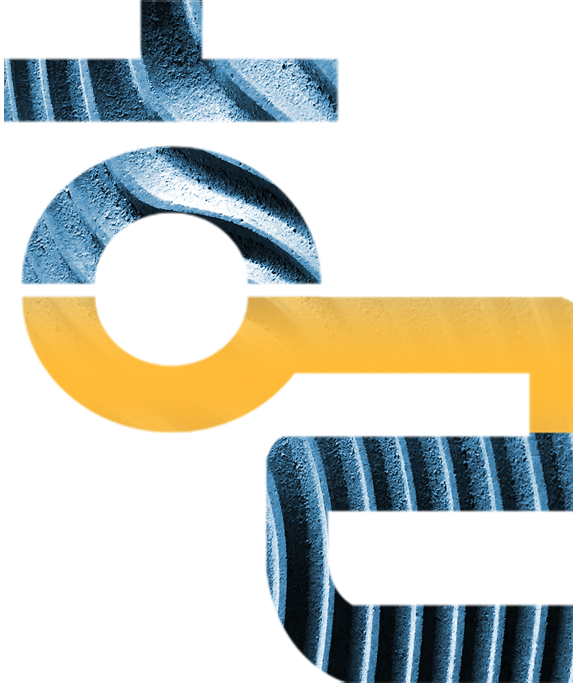
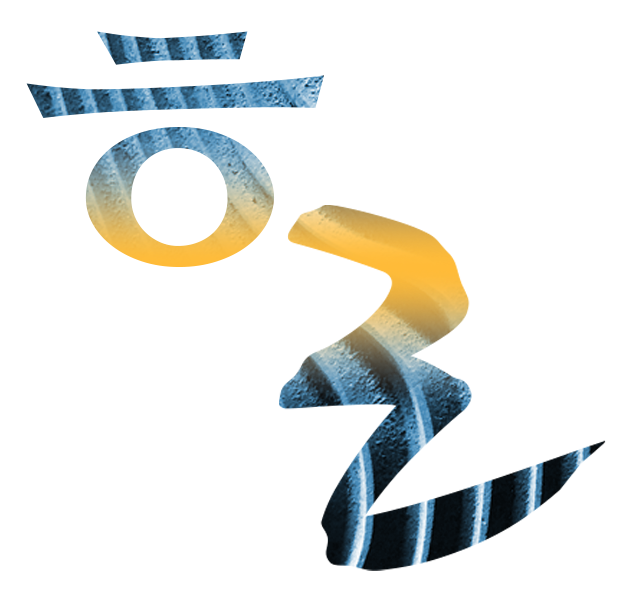
..

diff --git a/public/index.html b/public/index.html
@@ -1,0 +1,89 @@
+<!DOCTYPE html>
+<html>
+  <head>
+    <meta charset="utf-8">
+    <meta name="viewport" content="width=device-width, initial-scale=1">
+    <title>Welcome to Firebase Hosting</title>
+
+    <!-- update the version number as needed -->
+    <script defer src="/__/firebase/8.3.0/firebase-app.js"></script>
+    <!-- include only the Firebase features as you need -->
+    <script defer src="/__/firebase/8.3.0/firebase-auth.js"></script>
+    <script defer src="/__/firebase/8.3.0/firebase-database.js"></script>
+    <script defer src="/__/firebase/8.3.0/firebase-firestore.js"></script>
+    <script defer src="/__/firebase/8.3.0/firebase-functions.js"></script>
+    <script defer src="/__/firebase/8.3.0/firebase-messaging.js"></script>
+    <script defer src="/__/firebase/8.3.0/firebase-storage.js"></script>
+    <script defer src="/__/firebase/8.3.0/firebase-analytics.js"></script>
+    <script defer src="/__/firebase/8.3.0/firebase-remote-config.js"></script>
+    <script defer src="/__/firebase/8.3.0/firebase-performance.js"></script>
+    <!-- 
+      initialize the SDK after all desired features are loaded, set useEmulator to false
+      to avoid connecting the SDK to running emulators.
+    -->
+    <script defer src="/__/firebase/init.js?useEmulator=true"></script>
+
+    <style media="screen">
+      body { background: #ECEFF1; color: rgba(0,0,0,0.87); font-family: Roboto, Helvetica, Arial, sans-serif; margin: 0; padding: 0; }
+      #message { background: white; max-width: 360px; margin: 100px auto 16px; padding: 32px 24px; border-radius: 3px; }
+      #message h2 { color: #ffa100; font-weight: bold; font-size: 16px; margin: 0 0 8px; }
+      #message h1 { font-size: 22px; font-weight: 300; color: rgba(0,0,0,0.6); margin: 0 0 16px;}
+      #message p { line-height: 140%; margin: 16px 0 24px; font-size: 14px; }
+      #message a { display: block; text-align: center; background: #039be5; text-transform: uppercase; text-decoration: none; color: white; padding: 16px; border-radius: 4px; }
+      #message, #message a { box-shadow: 0 1px 3px rgba(0,0,0,0.12), 0 1px 2px rgba(0,0,0,0.24); }
+      #load { color: rgba(0,0,0,0.4); text-align: center; font-size: 13px; }
+      @media (max-width: 600px) {
+        body, #message { margin-top: 0; background: white; box-shadow: none; }
+        body { border-top: 16px solid #ffa100; }
+      }
+    </style>
+  </head>
+  <body>
+    <div id="message">
+      <h2>Welcome</h2>
+      <h1>Firebase Hosting Setup Complete</h1>
+      <p>You're seeing this because you've successfully setup Firebase Hosting. Now it's time to go build something extraordinary!</p>
+      <a target="_blank" href="https://firebase.google.com/docs/hosting/">Open Hosting Documentation</a>
+    </div>
+    <p id="load">Firebase SDK Loading&hellip;</p>
+
+    <script>
+      document.addEventListener('DOMContentLoaded', function() {
+        const loadEl = document.querySelector('#load');
+        // // 🔥🔥🔥🔥🔥🔥🔥🔥🔥🔥🔥🔥🔥🔥🔥🔥🔥🔥🔥🔥🔥🔥🔥🔥🔥🔥🔥🔥🔥🔥🔥
+        // // The Firebase SDK is initialized and available here!
+        //
+        // firebase.auth().onAuthStateChanged(user => { });
+        // firebase.database().ref('/path/to/ref').on('value', snapshot => { });
+        // firebase.firestore().doc('/foo/bar').get().then(() => { });
+        // firebase.functions().httpsCallable('yourFunction')().then(() => { });
+        // firebase.messaging().requestPermission().then(() => { });
+        // firebase.storage().ref('/path/to/ref').getDownloadURL().then(() => { });
+        // firebase.analytics(); // call to activate
+        // firebase.analytics().logEvent('tutorial_completed');
+        // firebase.performance(); // call to activate
+        //
+        // // 🔥🔥🔥🔥🔥🔥🔥🔥🔥🔥🔥🔥🔥🔥🔥🔥🔥🔥🔥🔥🔥🔥🔥🔥🔥🔥🔥🔥🔥🔥🔥
+
+        try {
+          let app = firebase.app();
+          let features = [
+            'auth', 
+            'database', 
+            'firestore',
+            'functions',
+            'messaging', 
+            'storage', 
+            'analytics', 
+            'remoteConfig',
+            'performance',
+          ].filter(feature => typeof app[feature] === 'function');
+          loadEl.textContent = `Firebase SDK loaded with ${features.join(', ')}`;
+        } catch (e) {
+          console.error(e);
+          loadEl.textContent = 'Error loading the Firebase SDK, check the console.';
+        }
+      });
+    </script>
+  </body>
+</html>

diff --git a/css/index.css b/css/index.css
@@ -92,7 +92,7 @@ span.blue {
 	position: fixed;
 	bottom: 2em;
 	right: 0;
-	margin-bottom: 2em;
+	margin-bottom: 4em;
 	margin-right: 2em;
 	z-index: 100;
 }
@@ -191,6 +191,13 @@ span.blue {
 	position: relative;
 	width: 100%;
 	user-select: none;
+	height: 100vh;
+}
+.main-wrapper .main-img {
+	position: absolute;
+	left: 50%;
+	top: 50%;
+	transform: translate(-50%,-50%);
 }
 
 .main-wrapper .text-box {
@@ -200,7 +207,7 @@ span.blue {
 .main-wrapper .text-box .top {
 	width: 100%;
 	position: absolute;
-	left: 53%;
+	left: 54%;
 	top: 30%;
 	font-size: 2.7em;
 	line-height: 1.6em;
@@ -218,8 +225,8 @@ span.blue {
 .main-wrapper .text-box .bottom {
 	width: 100%;
 	position: absolute;
-	left: 35%;
-	top: 56%;
+	left: 36%;
+	top: 60%;
 	font-size: 2.5em;
 	font-weight: 300;
 	line-height: 1.4em;
@@ -503,15 +510,15 @@ line-height: 1.5em;
 /************ .반응형 *************/
 @media screen and (max-width: 1199px) {
 	.main-wrapper .text-box .top {
-		left: 54%;
-		top: 30%;
-		font-size: 2em;
+		left: 56%;
+		top: 32%;
+		font-size: 2.3em;
 	}
 
 	.main-wrapper .text-box .bottom {
-		left: 34%;
-		top: 57%;
-		font-size: 1.7em;
+		left: 30%;
+		top: 60%;
+		font-size: 2.2em;
 	}
 
 
@@ -573,15 +580,15 @@ line-height: 1.5em;
 
 @media screen and (max-width: 991px) {
 	.main-wrapper .text-box .top {
-		top: 28%;
-		left: 53%;
-		font-size: 1.6em;
+		top: 26%;
+		left: 50%;
+		font-size: 2.2em;
 	}
 
 	.main-wrapper .text-box .bottom {
-		left: 34%;
-		top: 56%;
-		font-size: 1.4em;
+		left: 30%;
+		top: 58%;
+		font-size: 2em;
 	}
 
 	.navi-wrapper ul.navi-wrap {
@@ -601,15 +608,14 @@ line-height: 1.5em;
 
 @media screen and (max-width: 767px) {
 	.main-wrapper .text-box .top {
-		top: 29%;
-		left: 53%;
-		font-size: 1.2em;
-	}
-
+		top: 25%;
+		left: 45%;
+		font-size: 2em;
+	
 	.main-wrapper .text-box .bottom {
-		left: 34%;
-		top: 57%;
-		font-size: 1.1em;
+		left: 26%;
+		top: 58%;
+		font-size: 1.8em;
 	}
 
 	.skills-wrapper .title-sub {
@@ -661,25 +667,15 @@ line-height: 1.5em;
 		z-index: 90;
 	}
 
-	.main-wrapper .main-img {
-		background-image: url(../img/main-dm.png);
-		width: 100%;
-		height: 280px;
-	}
-
-	.main-wrapper .main-img>img {
-		display: none;
-	}
-
 	.main-wrapper .text-box .top {
-		left: 35%;
-		font-size: 1.7em;
+		left: 33%;
+		font-size: 1.8em;
 	}
 
 	.main-wrapper .text-box .bottom {
 		left: 4%;
 		top: 60%;
-		font-size: 1.6em;
+		font-size: 1.7em;
 	}
 
 	.about-wrapper li.about {

diff --git a/html/index.html b/html/index.html
@@ -44,7 +44,7 @@
 	<!-- main-wrapper -->
 	<section class="main-wrapper pages">
 		<div class="main-img">
-			<img src="../img/main-title2.png" alt="ㅎㄹ" class="w-100">
+			<img src="../img/main-title.png" alt="ㅎㄹ" class="w-100">
 		</div>
 		<div class="text-box">
 			<div class="top">
